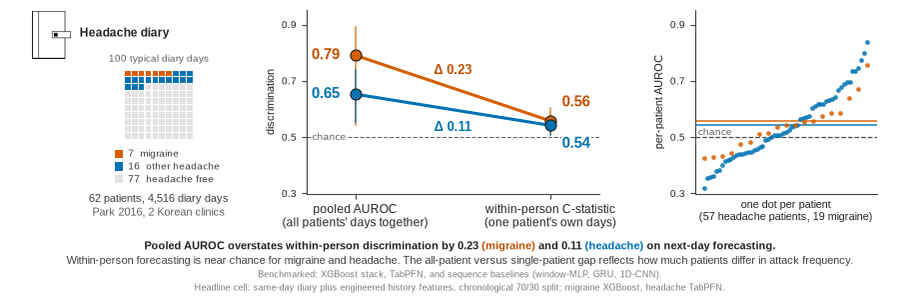
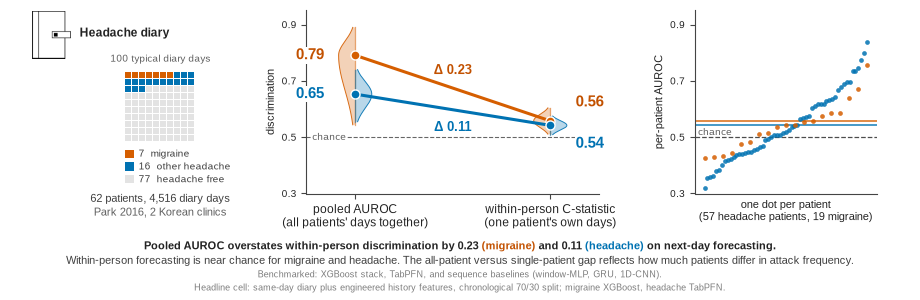
grid

diff --git a/docs/methodAndResults_diagramCreatorScripts/graphical_abstract.py b/docs/methodAndResults_diagramCreatorScripts/graphical_abstract.py
@@ -38,6 +38,7 @@ import sys
 from pathlib import Path
 import io
 
+import numpy as np
 import matplotlib.pyplot as plt
 from matplotlib.patches import Rectangle
 from matplotlib.offsetbox import AnnotationBbox, HPacker, TextArea, VPacker
@@ -55,7 +56,13 @@ import _style as S  # noqa: E402
 SHARED_YLIM = (0.30, 0.95)
 SHARED_YTICKS = [0.3, 0.5, 0.7, 0.9]
 
+CI_BAND_WIDTH = 0.085               # widest point of a CI density, in x units
 MIG_TEXT = "#C25100"  # 4.70:1 on white; S.target_color("migraine") is 3.87:1
+GRID_X_FRAC = 0.588                 # grid origin as a fraction of the cohort panel,
+GRID_Y_FRAC = 0.287                 # chosen so the snapped box keeps its old position
+GRID_MID_FRAC = 0.810               # horizontal centre of the snapped grid
+GRID_PITCH_PX = 7                   # day-grid cell-to-cell distance, whole pixels
+GRID_CELL_PX = 6                    # filled square inside that pitch, 1 px gutter
 
 # Numbers: single source of truth, traced to article.tex.
 MIGRAINE = {"pooled": 0.791, "pooled_ci": (0.544, 0.890),
@@ -107,7 +114,7 @@ def _draw_cohort(ax) -> None:
     ax.text(0.30, 0.875, "Headache diary", fontsize=8.8, fontweight="bold",
             color=S.INK, transform=ax.transAxes, va="center", ha="left")
 
-    ax.text(0.80, 0.735, "100 typical diary days", fontsize=7.4, color="#5f5f5f",
+    ax.text(GRID_MID_FRAC, 0.735, "100 typical diary days", fontsize=7.4, color="#5f5f5f",
             transform=ax.transAxes, va="center", ha="center")
     gax = ax.inset_axes([0.30, 0.295, 1.0, 0.38])
     gax.set_xlim(0, 10); gax.set_ylim(0, 10)
@@ -115,14 +122,17 @@ def _draw_cohort(ax) -> None:
     n_mig, n_hea = 7, 23                      # per 100 days: 7.2% and 23.5%
     for i in range(100):
         col = mig_col if i < n_mig else (hea_col if i < n_hea else "#e3e3e3")
-        gax.add_patch(Rectangle((i % 10 + 0.08, 9 - i // 10 + 0.08), 0.84, 0.84,
-                                fc=col, ec="none"))
+        # one data unit is GRID_PITCH_PX once main() snaps the box, so a cell of
+        # CELL/PITCH lands on whole pixels and every square rasterises identically
+        gax.add_patch(Rectangle((i % 10, 9 - i // 10),
+                                GRID_CELL_PX / GRID_PITCH_PX,
+                                GRID_CELL_PX / GRID_PITCH_PX, fc=col, ec="none",
+                                antialiased=False))
 
-    # The grid is aspect-equal, so it sits centred inside its full-width inset;
-    # caption and legend are centred on it rather than flush to the panel edge.
-    ax.figure.canvas.draw()
-    pbox, gbox = ax.get_window_extent(), gax.get_window_extent()
-    gx0 = (gbox.x0 - pbox.x0) / pbox.width
+    # main() snaps the grid to GRID_X_FRAC of this panel, so the legend and the
+    # captions take that fraction directly rather than measuring a box that is
+    # still pre-snap at this point.
+    gx0 = GRID_X_FRAC
 
     legend = [(mig_col, "7  migraine"),
               (hea_col, "16  other headache"),
@@ -134,10 +144,38 @@ def _draw_cohort(ax) -> None:
         ax.text(gx0 + 0.085, yy + 0.021, lab, fontsize=7.4, color="#3d3d3d",
                 transform=ax.transAxes, va="center", ha="left")
 
-    ax.text(0.80, -0.030, "62 patients, 4,516 diary days", fontsize=7.6, color="#3d3d3d",
+    ax.text(GRID_MID_FRAC, -0.030, "62 patients, 4,516 diary days", fontsize=7.6, color="#3d3d3d",
             transform=ax.transAxes, va="center", ha="center")
-    ax.text(0.80, -0.105, "Park 2016, 2 Korean clinics", fontsize=7.6, color="#5f5f5f",
+    ax.text(GRID_MID_FRAC, -0.105, "Park 2016, 2 Korean clinics", fontsize=7.6, color="#5f5f5f",
             transform=ax.transAxes, va="center", ha="center")
+    return gax
+
+
+def _ci_density(ax, xi, est, ci, color, side, zorder):
+    """Draw a confidence interval as a 90-degree-rotated density on the AUROC axis.
+
+    The thin spine spans exactly the interval, so the CI is still read off the
+    y-axis directly; the filled curve beside it shows where the mass sits. Both
+    published intervals are asymmetric about the estimate (migraine pooled runs
+    0.544 to 0.890 around 0.791), so a single Gaussian would misplace the peak.
+    Each half instead takes its own sigma from its own half-width, which is the
+    split-normal the interval already implies.
+
+    Migraine and headache are drawn on opposite sides because at the within-person
+    end the two estimates differ by 0.016 and the intervals sit almost on top of
+    each other; concentric shapes would read as one blob. Both use the same
+    maximum width, so the widths stay comparable between the two targets.
+    """
+    lo, hi = ci
+    sd_lo = max((est - lo) / 1.96, 1e-6)
+    sd_hi = max((hi - est) / 1.96, 1e-6)
+    yy = np.linspace(lo, hi, 240)
+    sd = np.where(yy < est, sd_lo, sd_hi)
+    dens = np.exp(-0.5 * ((yy - est) / sd) ** 2) * CI_BAND_WIDTH * side
+    ax.fill_betweenx(yy, xi, xi + dens, fc=color, ec="none", alpha=0.28,
+                     zorder=zorder)
+    ax.plot(xi + dens, yy, color=color, lw=0.7, alpha=0.9, zorder=zorder + 0.1)
+    ax.plot([xi, xi], [lo, hi], color=color, lw=0.9, alpha=0.55, zorder=zorder + 0.1)
 
 
 def _draw_slopegraph(ax) -> None:
@@ -151,18 +189,17 @@ def _draw_slopegraph(ax) -> None:
     # Migraine slope
     mig_y = [MIGRAINE["pooled"], MIGRAINE["within"]]
     ax.plot(x, mig_y, color=mig_col, lw=2.2, zorder=4,
-            marker="o", markersize=8, mfc=mig_col, mec=S.INK, mew=0.8)
-    # Migraine CI whiskers
+            marker="o", markersize=6.5, mfc=mig_col, mec="white", mew=1.0)
     for xi, yi, ci in [(0, MIGRAINE["pooled"], MIGRAINE["pooled_ci"]),
                        (1, MIGRAINE["within"], MIGRAINE["within_ci"])]:
-        ax.plot([xi, xi], [ci[0], ci[1]], color=mig_col, lw=1.2, alpha=0.7, zorder=3)
+        _ci_density(ax, xi, yi, ci, mig_col, -1, 2.0)
     # Headache slope
     hea_y = [HEADACHE["pooled"], HEADACHE["within"]]
     ax.plot(x, hea_y, color=hea_col, lw=2.2, zorder=4,
-            marker="o", markersize=8, mfc=hea_col, mec=S.INK, mew=0.8)
+            marker="o", markersize=6.5, mfc=hea_col, mec="white", mew=1.0)
     for xi, yi, ci in [(0, HEADACHE["pooled"], HEADACHE["pooled_ci"]),
                        (1, HEADACHE["within"], HEADACHE["within_ci"])]:
-        ax.plot([xi, xi], [ci[0], ci[1]], color=hea_col, lw=1.2, alpha=0.7, zorder=3)
+        _ci_density(ax, xi, yi, ci, hea_col, +1, 2.0)
     # Endpoint value labels: white bbox lifts the text off crossing slopes.
     # Within-person endpoints sit only 0.016 apart in y (migraine 0.558,
     # headache 0.542), which is below the 8.5pt label line-height at this
@@ -170,16 +207,16 @@ def _draw_slopegraph(ax) -> None:
     # to avoid stacking on top of each other. clip_on=False lets labels
     # render into the inter-panel wspace if they exceed the data area.
     label_box = dict(fc="white", ec="none", pad=0.8)
-    ax.text(-0.08, MIGRAINE["pooled"], f"{MIGRAINE['pooled']:.2f}", ha="right",
+    ax.text(-0.16, MIGRAINE["pooled"], f"{MIGRAINE['pooled']:.2f}", ha="right",
             va="center", fontsize=11, color=MIG_TEXT, fontweight="bold",
             bbox=label_box, clip_on=False)
-    ax.text(1.06, MIGRAINE["within"] + 0.04, f"{MIGRAINE['within']:.2f}",
+    ax.text(1.13, MIGRAINE["within"] + 0.04, f"{MIGRAINE['within']:.2f}",
             ha="left", va="bottom", fontsize=11, color=MIG_TEXT, fontweight="bold",
             bbox=label_box, clip_on=False)
-    ax.text(-0.08, HEADACHE["pooled"], f"{HEADACHE['pooled']:.2f}", ha="right",
+    ax.text(-0.16, HEADACHE["pooled"], f"{HEADACHE['pooled']:.2f}", ha="right",
             va="center", fontsize=11, color=hea_col, fontweight="bold",
             bbox=label_box, clip_on=False)
-    ax.text(1.06, HEADACHE["within"] - 0.04, f"{HEADACHE['within']:.2f}",
+    ax.text(1.13, HEADACHE["within"] - 0.04, f"{HEADACHE['within']:.2f}",
             ha="left", va="top", fontsize=11, color=hea_col, fontweight="bold",
             bbox=label_box, clip_on=False)
     # Delta annotations at midpoint
@@ -298,10 +335,10 @@ def main() -> None:
     plt.rcParams["savefig.bbox"] = "standard"
 
     fig, (ax_cohort, ax_gap, ax_cal) = plt.subplots(
-        1, 3, figsize=(9.21, 3.00), dpi=100,
+        1, 3, figsize=(9.20, 3.00), dpi=100,
         gridspec_kw={"width_ratios": [1.0, 1.85, 1.15]},
     )
-    _draw_cohort(ax_cohort)
+    grid_ax = _draw_cohort(ax_cohort)
     _draw_slopegraph(ax_gap)
     if PER_PATIENT_CSV.exists():
         _draw_per_patient(ax_cal)
@@ -352,6 +389,18 @@ def main() -> None:
     # only the per-patient panel moves left; the hero keeps its width
     _b = ax_cal.get_position()
     ax_cal.set_position([_b.x0 - 0.022, _b.y0, _b.width, _b.height])
+
+    # A 10x10 grid only rasterises evenly if its box is an exact multiple of the
+    # pitch and starts on a pixel boundary; otherwise the first cell loses a pixel.
+    fig.canvas.draw()
+    _fw, _fh = fig.get_size_inches() * fig.dpi
+    _pb = ax_cohort.get_window_extent()
+    _side = 10 * GRID_PITCH_PX
+    _gx = round(_pb.x0 + GRID_X_FRAC * _pb.width)
+    _gy = round(_pb.y0 + GRID_Y_FRAC * _pb.height)
+    grid_ax.set_aspect("auto")
+    grid_ax.set_axes_locator(None)      # inset locators override set_position
+    grid_ax.set_position([_gx / _fw, _gy / _fh, _side / _fw, _side / _fh])
 
     out_png = HERE / "figures" / "graphical_abstract.png"
     fig.savefig(out_png, dpi=100, bbox_inches=None,
